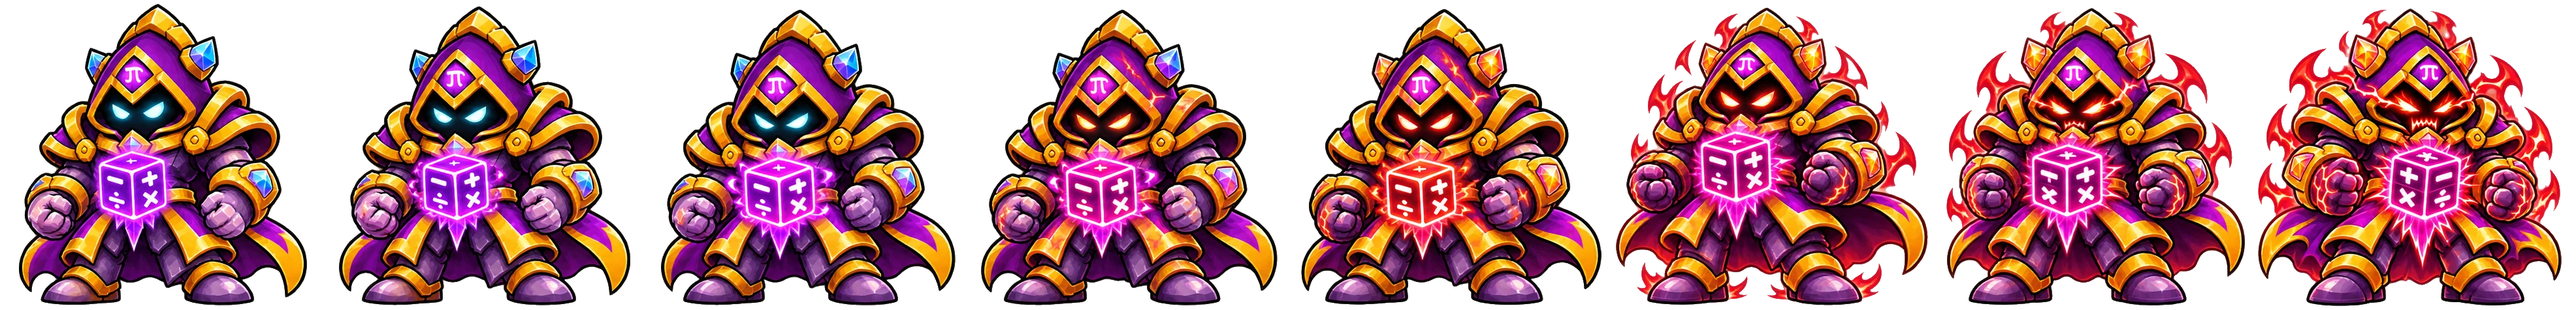
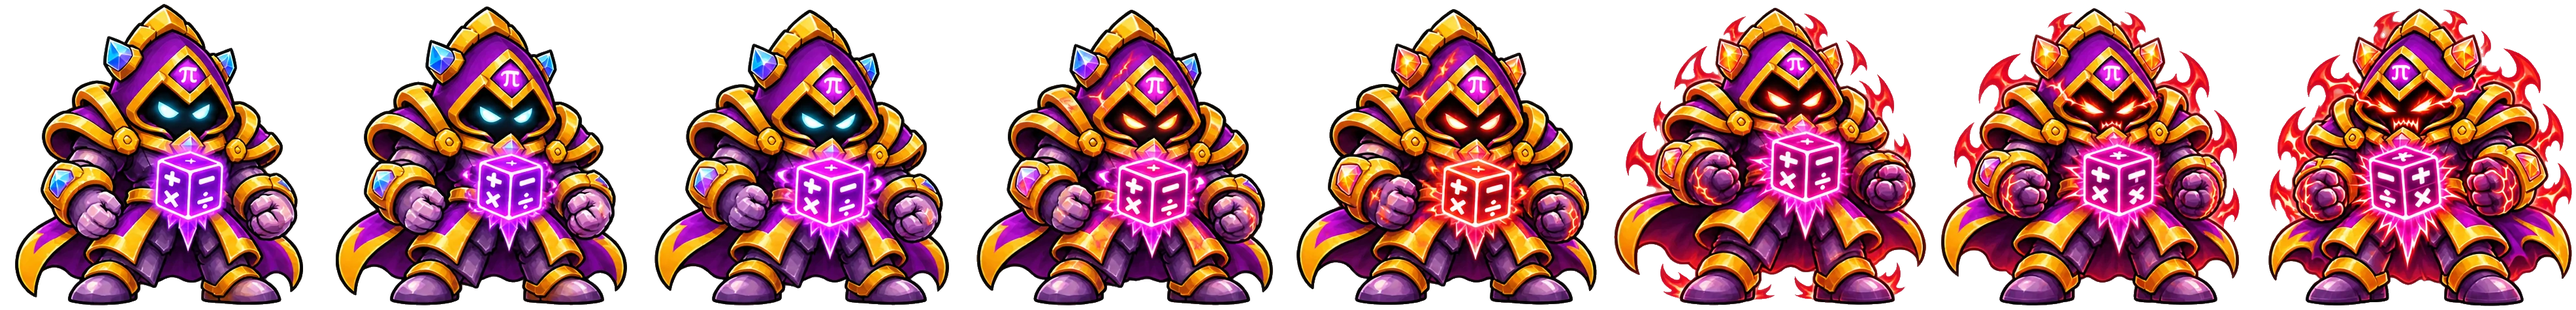
fix(jeu): le Sorcier π face au joueur, l'Empereur au toucher, reliques, récompenses des défis
- Animation sur place et portrait du Sorcier π remis dans le sens dessiné (ils regardaient
  dos au héros depuis le retournement de ses images).
- Empereur du Savoir : on passe chaque étape en touchant l'écran (« Touche l'écran pour
  continuer »), plus rien ne passe tout seul.
- Icône de chaque matière = l'icône de sa relique, partout.
- Contre-la-montre et Survie : bonus d'XP de fin (2 par bonne réponse, au plus 60) et coffre
  selon le score (Contre-la-montre 8/15/22/30, Survie 5/10/15/20 → commun … légendaire), ouvert
  au bilan ; seuils annoncés dans les règles.

Claude-Session: https://claude.ai/code/session_01132Wvyu4kBQ8aSLQLYo56c

diff --git a/apps/server/src/modules/training/training.service.ts b/apps/server/src/modules/training/training.service.ts
@@ -6,6 +6,9 @@ import {
   newSkillState,
   PERFECT_BONUS,
   trainingChest,
+  defiBonusXp,
+  defiChest,
+  type DefiKind,
   type SeriesResult,
   scoreOn20,
   seriesLength,
@@ -40,6 +43,12 @@ import { disabledSkills } from '../pedagogy/index.ts';
  */
 
 export const SESSION_NOT_FOUND = 'Partie introuvable';
+
+/** Défi joué (Contre-la-montre, Survie), sinon null. */
+const defiOf = (mode: string): DefiKind | null => (mode === 'chrono' || mode === 'survie' ? mode : null);
+/** Bonus d'XP de fin : selon le score pour un défi, sinon le bonus du sans-faute. */
+const finishBonus = (defi: DefiKind | null, perfect: boolean, correct: number) =>
+  defi ? defiBonusXp(correct) : perfect ? PERFECT_BONUS : 0;
 const UNKNOWN_SKILL = 'Notion inconnue';
 const BOSS_ELSEWHERE = 'Combat de boss : utiliser /battles';
 
@@ -62,6 +71,44 @@ export function createTrainingService({ db, clock, random, timeZone, onFinished 
   const openChest = async (tx: Tx, profileId: string, series: SeriesResult): Promise<Chest | null> => {
     const rolled = trainingChest(series, random.float, new Set(await profilesRepo(tx).heroes(profileId)));
     return rolled && grantChest(tx, profileId, rolled);
+  };
+
+  /** Coffre de fin de défi : selon le nombre de bonnes réponses (aucun sous le minimum). */
+  const openDefiChest = async (tx: Tx, profileId: string, kind: DefiKind, correct: number): Promise<Chest | null> => {
+    const rolled = defiChest(kind, correct, random.float, new Set(await profilesRepo(tx).heroes(profileId)));
+    return rolled && grantChest(tx, profileId, rolled);
+  };
+
+  /**
+   * Coffre de fin de partie : défi → selon le score ; entraînement → seulement une série complète
+   * entièrement juste (une question rattrapée au 2e essai compte comme trouvée).
+   */
+  const chestOf = async (
+    tx: Tx,
+    profileId: string,
+    p: {
+      readonly sessionId: string;
+      readonly defi: DefiKind | null;
+      readonly regular: readonly { readonly correct: boolean; readonly skillId: string; readonly seed: number }[];
+      readonly correct: number;
+      readonly complete: boolean;
+    },
+  ): Promise<Chest | null> => {
+    if (p.defi) return openDefiChest(tx, profileId, p.defi, p.correct);
+    if (!p.complete) return null;
+    const solved = await solvedCount(trainingRepo(tx), p.sessionId, p.regular);
+    return openChest(tx, profileId, { total: p.regular.length, solved, firstTry: p.correct });
+  };
+
+  /** Questions de la série trouvées : justes du 1er coup, ou rattrapées au 2e essai (indice). */
+  const solvedCount = async (
+    repo: ReturnType<typeof trainingRepo>,
+    sessionId: string,
+    regular: readonly { readonly correct: boolean; readonly skillId: string; readonly seed: number }[],
+  ) => {
+    const secondTries = (await repo.attemptsOf(sessionId)).filter((a) => a.attempt === 2 && a.correct);
+    return regular.filter((r) => r.correct || secondTries.some((a) => a.skillId === r.skillId && a.seed === r.seed))
+      .length;
   };
 
   return {
@@ -162,7 +209,10 @@ export function createTrainingService({ db, clock, random, timeZone, onFinished 
         // Série de 5 en calcul de tête (toutes les notions « mental »), sinon de 4.
         const length = seriesLength(regular.every((r) => getSkill(r.skillId)?.mental === true));
         const perfect = regular.length >= length && regularCorrect === regular.length;
-        const xpGained = rows.reduce((s, r) => s + r.xp, 0) + (perfect ? PERFECT_BONUS : 0);
+        // Défis : bonus de fin selon le score (le sans-faute n'y a pas de sens, la série est sans fin).
+        const defi = defiOf(session.mode);
+        const bonus = finishBonus(defi, perfect, regularCorrect);
+        const xpGained = rows.reduce((s, r) => s + r.xp, 0) + bonus;
         const coinsGained = coinsForXp(xpGained);
 
         // Répétition espacée : une mise à jour par notion jouée.
@@ -201,14 +251,13 @@ export function createTrainingService({ db, clock, random, timeZone, onFinished 
         const profiles = profilesRepo(tx);
         const profile = await profiles.findForUpdate(session.profileId);
         if (!profile) throw notFound(PROFILE_NOT_FOUND);
-        const secondTries = (await repo.attemptsOf(sessionId)).filter((a) => a.attempt === 2 && a.correct);
-        const solved = regular.filter(
-          (r) => r.correct || secondTries.some((a) => a.skillId === r.skillId && a.seed === r.seed),
-        ).length;
-        const chest =
-          regular.length >= length
-            ? await openChest(tx, profile.id, { total: regular.length, solved, firstTry: regularCorrect })
-            : null;
+        const chest = await chestOf(tx, profile.id, {
+          sessionId,
+          defi,
+          regular,
+          correct: regularCorrect,
+          complete: regular.length >= length,
+        });
         await profiles.credit(profile.id, {
           xp: xpGained,
           coins: coinsGained + (chest?.coins ?? 0),

diff --git a/apps/web/src/features/boss/EmperorScene.tsx b/apps/web/src/features/boss/EmperorScene.tsx
@@ -1,4 +1,4 @@
-import { useEffect, useRef, useState } from 'react';
+import { useState } from 'react';
 import { motion, useReducedMotion } from 'motion/react';
 import { assetSrc } from '../../design/assets.ts';
 import { markEmperorSeen } from './emperor.ts';
@@ -9,13 +9,10 @@ const LINES = {
   reliques: '…et avec ce savoir, je vais conquérir le monde ! Mouahahaha !',
 } as const;
 
-/** Durée de chaque temps avant de passer tout seul au suivant (un toucher avance plus vite). */
-const STAGE_MS = 4500;
-
 /**
  * L'Empereur du Savoir, grand boss final, maître des boss des matières : plein écran en deux temps
  * (lui seul, puis entouré des symboles des matières qui apparaissent). Sans bouton : un toucher
- * avance, sinon chaque temps passe tout seul.
+ * sur l'écran fait passer chaque étape (rien ne passe tout seul).
  */
 export function EmperorScene({ profileId, onDone }: { readonly profileId: string; readonly onDone: () => void }) {
   const reduce = useReducedMotion();
@@ -25,15 +22,8 @@ export function EmperorScene({ profileId, onDone }: { readonly profileId: string
     markEmperorSeen(profileId);
     onDone();
   };
+  // On avance seulement en touchant l'écran (aux deux étapes) : le temps de lire.
   const next = () => (stage === 'seul' ? setStage('reliques') : done());
-  const latest = useRef(next);
-  useEffect(() => {
-    latest.current = next;
-  });
-  useEffect(() => {
-    const t = window.setTimeout(() => latest.current(), STAGE_MS);
-    return () => window.clearTimeout(t);
-  }, [stage]);
   const seul = assetSrc('bosses-empereur-empereur');
   const avec = assetSrc('bosses-empereur-empereur-reliques');
   const img = 'max-h-[58dvh] w-[min(92vw,560px)] object-contain';
@@ -98,6 +88,15 @@ export function EmperorScene({ profileId, onDone }: { readonly profileId: string
           {LINES[stage]}
         </Bubble>
       </motion.div>
+      <motion.p
+        key={`touche-${stage}`}
+        initial={{ opacity: 0 }}
+        animate={reduce ? { opacity: 1 } : { opacity: [0.4, 1, 0.4] }}
+        transition={{ delay: 1.2, duration: 1.6, repeat: reduce ? 0 : Infinity }}
+        className="font-display text-toon pointer-events-none relative text-xl"
+      >
+        Touche l’écran pour continuer
+      </motion.p>
     </div>
   );
 }

diff --git a/apps/server/src/modules/training/training.test.ts b/apps/server/src/modules/training/training.test.ts
@@ -29,12 +29,15 @@ beforeEach(async () => {
   profileId = res.json<Profile>().id;
 });
 
-const start = async (skillId: string | null = 'm5-tables') =>
+const start = async (
+  skillId: string | null = 'm5-tables',
+  mode: 'entrainement' | 'chrono' | 'survie' = 'entrainement',
+) =>
   (
     await app.inject({
       method: 'POST',
       url: '/api/v1/sessions',
-      payload: { profileId, mode: 'entrainement', subject: 'maths', chapterId: 'm5-calcul', skillId },
+      payload: { profileId, mode, subject: 'maths', chapterId: 'm5-calcul', skillId },
     })
   ).json<{ id: string }>().id;
 
@@ -141,6 +144,21 @@ describe('parties d’entraînement', () => {
     ).json<SessionSummary>();
     expect(got.perfect).toBe(false);
     expect(got.chest).not.toBeNull();
+  });
+
+  it('défis : coffre selon le score et bonus d’XP de fin (Survie : 5 bonnes réponses = coffre commun)', async () => {
+    const few = await start('m5-tables', 'survie');
+    for (let seed = 1; seed <= 4; seed++) await answer(few, seed, true);
+    const none = (await app.inject({ method: 'POST', url: `/api/v1/sessions/${few}/finish` })).json<SessionSummary>();
+    expect(none.chest).toBeNull();
+
+    const id = await start('m5-tables', 'survie');
+    let perAnswer = 0;
+    for (let seed = 1; seed <= 6; seed++) perAnswer += (await answer(id, seed, true)).xp;
+    await answer(id, 7, false);
+    const got = (await app.inject({ method: 'POST', url: `/api/v1/sessions/${id}/finish` })).json<SessionSummary>();
+    expect(got.chest?.rarity).toBe('commun');
+    expect(got.xpGained).toBe(perAnswer + 12);
   });
 
   it('« Je ne sais pas » : compté comme une erreur', async () => {

diff --git a/apps/web/src/features/defis/DefiPlay.tsx b/apps/web/src/features/defis/DefiPlay.tsx
@@ -11,14 +11,16 @@ import { PageShell } from '../../shared/ui/PageShell.tsx';
 import { Questy } from '../../shared/ui/mascot/Questy.tsx';
 import { SpeechBubble } from '../../shared/ui/SpeechBubble.tsx';
 import { useToast } from '../../shared/ui/Toast.tsx';
+import { ChestReveal } from '../../shared/ui/game/ChestReveal.tsx';
 import { bestScore, SURVIE_HEARTS, type DefiId } from './rules.ts';
 import { useDefi } from './useDefi.ts';
 
 const TITLES: Record<DefiId, string> = { chrono: 'Contre-la-montre', survie: 'Survie' };
 const RULES: Record<DefiId, string> = {
-  chrono: '60 secondes pour donner un maximum de bonnes réponses. Une erreur ne coûte rien : on passe à la suivante !',
+  chrono:
+    '60 secondes pour donner un maximum de bonnes réponses. Une erreur ne coûte rien : on passe à la suivante ! Coffre dès 8 bonnes réponses, meilleur à 15, 22 et 30.',
   survie:
-    '3 cœurs. Chaque erreur coûte un cœur, et ça devient plus dur toutes les 5 bonnes réponses. Tiens le plus longtemps possible !',
+    '3 cœurs. Chaque erreur coûte un cœur, et ça devient plus dur toutes les 5 bonnes réponses. Coffre dès 5 bonnes réponses, meilleur à 10, 15 et 20.',
 };
 
 /**
@@ -163,6 +165,7 @@ function Results(p: {
         </p>
       )}
       {p.saving && <p>Enregistrement…</p>}
+      {p.summary?.chest && <ChestReveal chest={p.summary.chest} />}
       <div className="flex flex-wrap justify-center gap-2">
         <GameButton onClick={() => window.location.reload()}>Rejouer</GameButton>
         <GameButton variant="surface" onClick={() => void navigate('/hub')}>

diff --git a/packages/engine/src/loot.ts b/packages/engine/src/loot.ts
@@ -86,3 +86,34 @@ export function trainingChest(
 export function bossChest(medal: BossMedal, random: () => number, owned: ReadonlySet<HeroId> = new Set()): Chest {
   return fillChest(bossRarity(medal, random()), random, owned);
 }
+
+/**
+ * Défis (décision du 21/11/2026) : un coffre dès un score minimum, meilleur avec le score.
+ * Contre-la-montre : 8 / 15 / 22 / 30 bonnes réponses ; Survie : 5 / 10 / 15 / 20.
+ */
+export const DEFI_CHEST_STEPS = {
+  chrono: [8, 15, 22, 30],
+  survie: [5, 10, 15, 20],
+} as const satisfies Record<string, readonly [number, number, number, number]>;
+
+export type DefiKind = keyof typeof DEFI_CHEST_STEPS;
+
+/** Rareté du coffre d'un défi selon le nombre de bonnes réponses (null sous le minimum). */
+export function defiRarity(kind: DefiKind, correct: number): ChestRarity | null {
+  const reached = DEFI_CHEST_STEPS[kind].filter((step) => correct >= step).length;
+  return reached === 0 ? null : (CHEST_RARITIES[reached - 1] ?? 'commun');
+}
+
+/** Coffre de fin de défi (null sous le score minimum). */
+export function defiChest(
+  kind: DefiKind,
+  correct: number,
+  random: () => number,
+  owned: ReadonlySet<HeroId> = new Set(),
+): Chest | null {
+  const rarity = defiRarity(kind, correct);
+  return rarity ? fillChest(rarity, random, owned) : null;
+}
+
+/** Bonus d'XP de fin de défi : 2 par bonne réponse, au plus 60. */
+export const defiBonusXp = (correct: number) => Math.min(60, 2 * correct);

diff --git a/packages/engine/src/loot.test.ts b/packages/engine/src/loot.test.ts
@@ -1,5 +1,14 @@
 import { describe, expect, it } from 'vitest';
-import { bossChest, bossRarity, fillChest, rollRarity, trainingChest } from './loot.ts';
+import {
+  bossChest,
+  bossRarity,
+  defiBonusXp,
+  defiChest,
+  defiRarity,
+  fillChest,
+  rollRarity,
+  trainingChest,
+} from './loot.ts';
 
 const seq = (...values: number[]) => {
   let i = 0;
@@ -60,5 +69,19 @@ describe('coffres d’équipement', () => {
     const chest = fillChest('epique', seq(0, 0, 0.1, 0), new Set(['alex', 'lina']));
     expect(chest.hero).toMatchObject({ duplicate: true });
     expect(chest.coins).toBe(40 + 60);
+  });
+
+  it('défis : coffre selon le score (Contre-la-montre 8/15/22/30, Survie 5/10/15/20) et bonus d’XP', () => {
+    expect(defiRarity('chrono', 7)).toBeNull();
+    expect(defiRarity('chrono', 8)).toBe('commun');
+    expect(defiRarity('chrono', 15)).toBe('rare');
+    expect(defiRarity('chrono', 29)).toBe('epique');
+    expect(defiRarity('chrono', 40)).toBe('legendaire');
+    expect(defiRarity('survie', 4)).toBeNull();
+    expect(defiRarity('survie', 10)).toBe('rare');
+    expect(defiChest('survie', 20, seq(0.5, 0.99))?.rarity).toBe('legendaire');
+    expect(defiChest('chrono', 3, seq(0.5))).toBeNull();
+    expect(defiBonusXp(10)).toBe(20);
+    expect(defiBonusXp(100)).toBe(60);
   });
 });

diff --git a/apps/web/src/shared/ui/game/SubjectIcon.tsx b/apps/web/src/shared/ui/game/SubjectIcon.tsx
@@ -1,7 +1,8 @@
 import type { SubjectId } from '@questeo/shared';
+import { RELICS } from '../../../design/relics.ts';
 import { GameIcon, type IconSize } from './GameIcon.tsx';
 
-/** Icône d'une matière. */
+/** Icône d'une matière : la relique de la matière (même image partout dans le jeu). */
 export function SubjectIcon({
   subject,
   size = 'lg',
@@ -9,5 +10,5 @@ export function SubjectIcon({
   readonly subject: SubjectId;
   readonly size?: IconSize | number;
 }) {
-  return <GameIcon id={`icons-subjects-${subject}`} size={size} />;
+  return <GameIcon id={RELICS[subject].icon} size={size} />;
 }

diff --git a/apps/web/scripts/assets/sprites.ts b/apps/web/scripts/assets/sprites.ts
@@ -192,7 +192,7 @@ export const JOBS: readonly Job[] = [
     board: 'sorcier-pi-anim-attente.png',
     cols: 4,
     rows: 2,
-    mirror: true,
+    // Dessinée tournée vers la gauche : pas de miroir.
     target: 'bosses/sorcier-pi/anim-idle',
     height: 512,
   },
@@ -223,7 +223,7 @@ export const JOBS: readonly Job[] = [
     cols: 1,
     rows: 1,
     size: 640,
-    mirror: true,
+    // Dessinée tournée vers la gauche : pas de miroir.
     targets: ['bosses/sorcier-pi/portrait'],
   },
 ];
